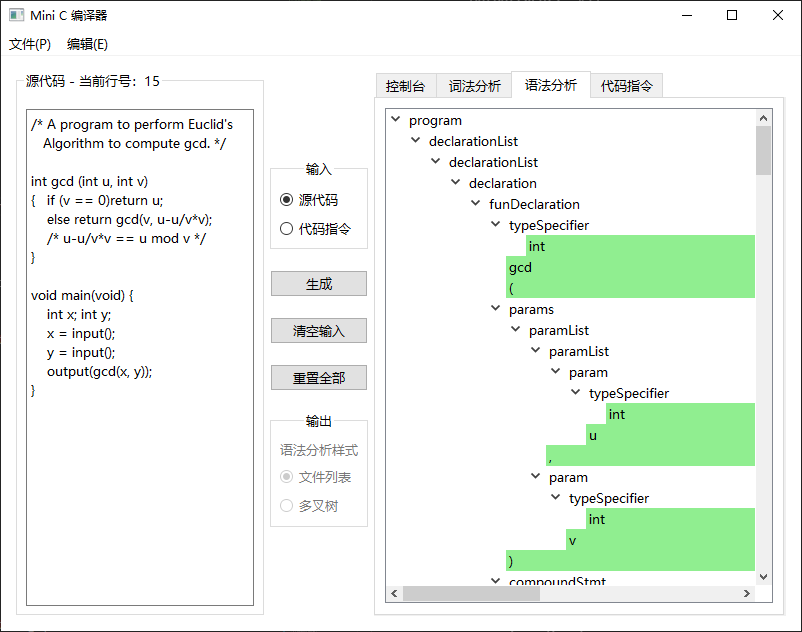
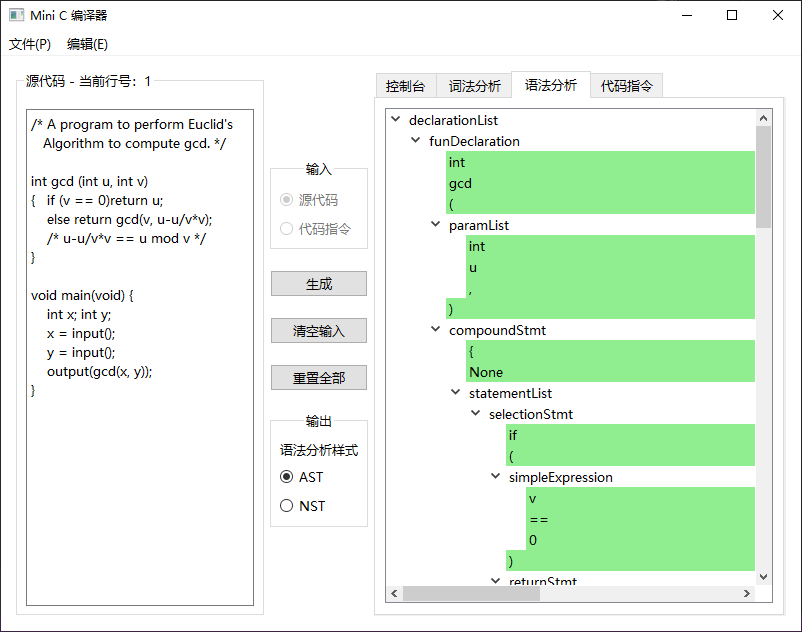
更新README

diff --git a/README.md b/README.md
@@ -100,6 +100,9 @@ MiniC
 | 菜单栏 - 编辑 | ![菜单栏 - 编辑](img/menuBar2.png) |
 | 清空输入 | 清空“源代码”输入框的内容。 |
 | 重置全部 | 清空“源代码”输入框的内容，并清空输出结果。 |
+| 工具栏 - 输出 | ![工具栏 - 输出](img/radioGroup2.png) |
+| AST | 选择该选项后，点击“生成”按钮后，语法分析输出抽象语法树 |
+| NST | 选择该选项后，点击“生成”按钮后，语法分析输出普通语法树 |
 | 控制台 | ![控制台](img/console.png) |
 | 生成 - 控制台 | 输出print的内容 |
 | 词法分析 | ![控制台](img/lexer.png) |
